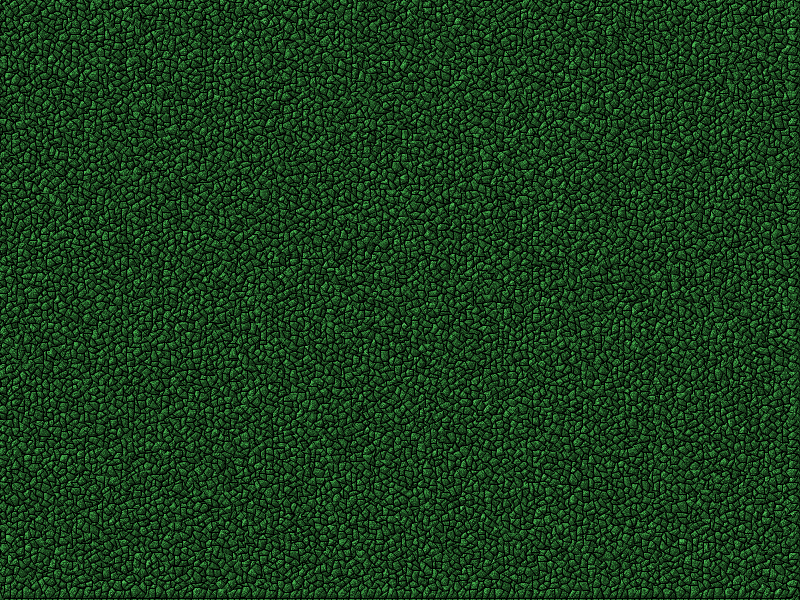
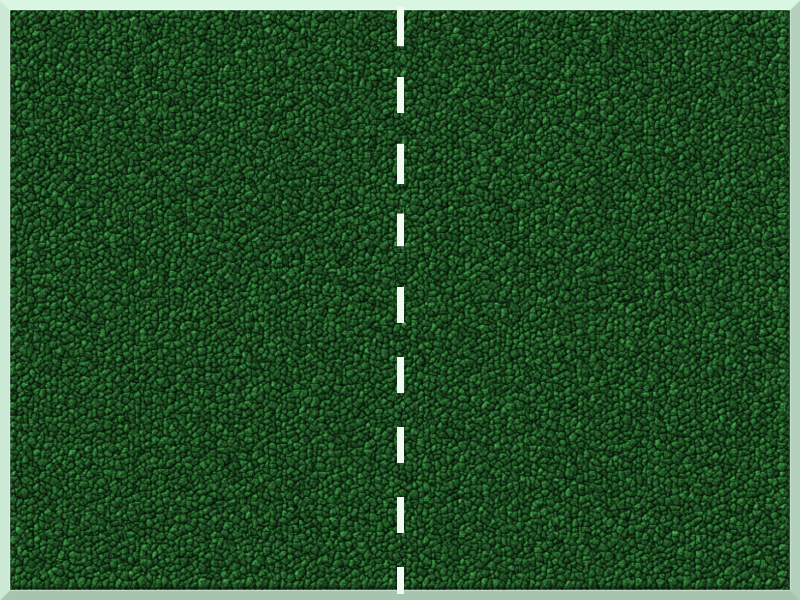
Nov 18 - Game finished!

diff --git a/MyNotes.md b/MyNotes.md
@@ -5,6 +5,6 @@ Tasks to complete the game:
   - Code some random Y velocity on serves - DONE
   - Draw my own paddles - DONE, Nov 16
   - Draw my own ball - Done, Nov 16
-  - Improve the background
+  - Improve the background - DONE - Nov 18
   
 When the above is done, make the code public on my Github and see if anyone uses it.
